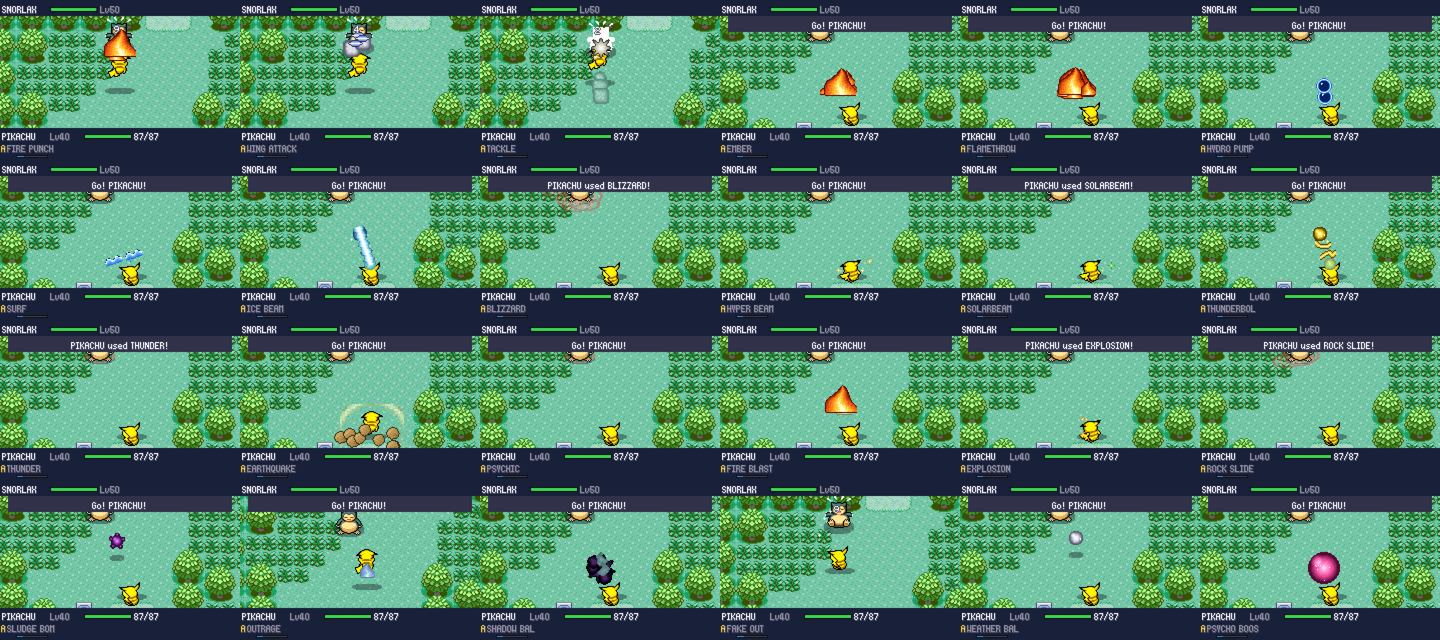
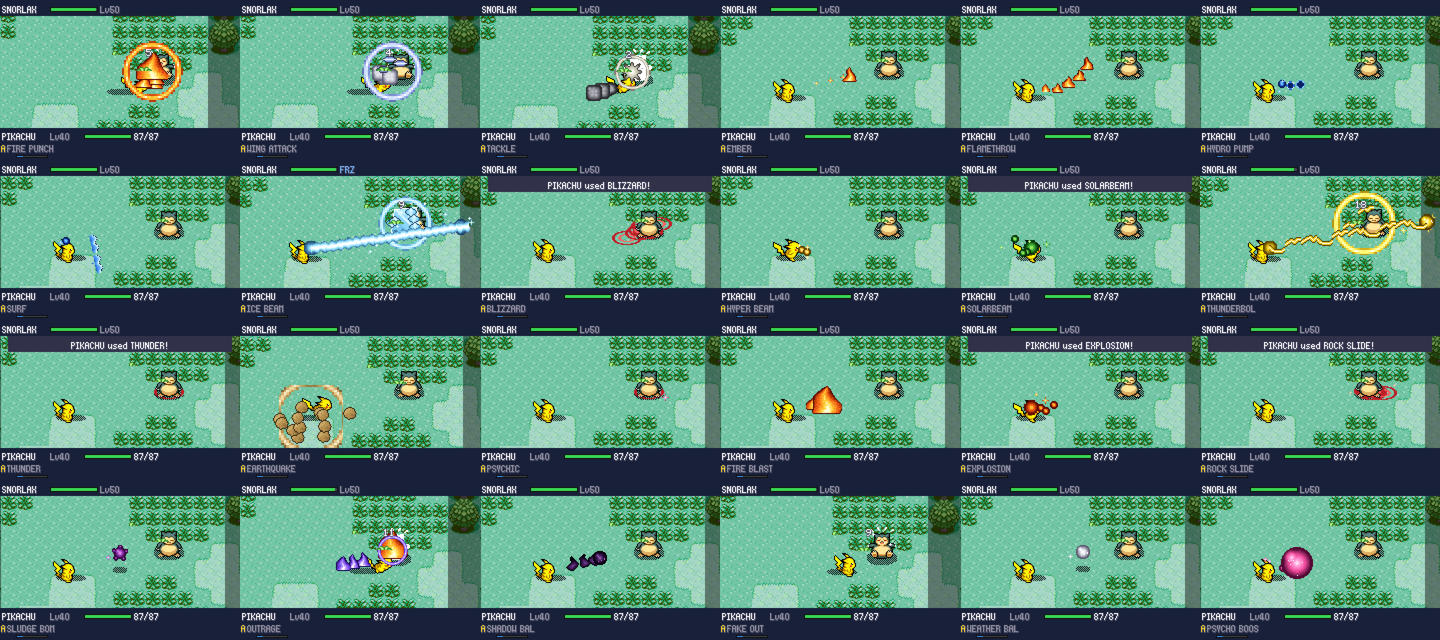
Clean battle field, better move effects, updated docs and screenshots
- arena: a clean rectangular playable field inside the real map window;
  rocks, walls, signs, water and ledges inside it are painted over, the
  scenery outside is dimmed with window 0 + darken blend
- move FX: charge-up gathering, self-move auras, projectile trails,
  growing streams, beam sparkles, strike build-up, impact shockwaves
- diagonal spawns and a camera that frames both fighters
- fixes: window/blend reset on exit, no palette pops during fade-out,
  flying/digging mons return at battle end, HUD text scheduling
- README and screenshots updated

Claude-Session: https://claude.ai/code/session_013R2tMbz1MA74Zkb74ruqsw

diff --git a/README.md b/README.md
@@ -5,8 +5,8 @@ Um mod de **Pokémon Emerald** (feito sobre a decompilação [pret/pokeemerald](
 Todas as batalhas viram ação: selvagens, treinadores, líderes, batalhas duplas, Safari e Battle Frontier. Você anda pela arena, mira os golpes, desvia com um dash, e cada golpe tem animação, hitbox e cooldown próprios.
 
 <p align="center">
+  <img src="docs/screenshots/trainer_thunder.png" width="400">
   <img src="docs/screenshots/trainer_fire_blast.png" width="400">
-  <img src="docs/screenshots/double_surf.png" width="400">
 </p>
 
 > **Aviso legal.** Este repositório **não contém nenhuma ROM**. Pokémon é marca e propriedade da Nintendo / Game Freak / Creatures. Os gráficos dos Pokémon em batalha vêm do [PMD SpriteCollab](https://sprites.pmdcollab.org) (licença **CC BY-NC 4.0**). Projeto pessoal, sem fins comerciais. Não distribua ROMs geradas a partir dele.
@@ -29,7 +29,7 @@ Todas as batalhas viram ação: selvagens, treinadores, líderes, batalhas dupla
 ## Recursos
 
 - **Combate em tempo real** em todas as batalhas suportadas: selvagens, treinadores, duplas (2×2, com aliado controlado por IA), batalhas com parceiro (Steven), Safari Zone, Battle Frontier e Battle Pyramid.
-- **Arena = o lugar onde a batalha começou.** A arena é recortada do mapa real ao redor do jogador (árvores, prédios, cavernas, água, animações de tileset), escolhendo automaticamente a região mais aberta e conectada por perto.
+- **Arena = o lugar onde a batalha começou.** A arena é recortada do mapa real ao redor do jogador (árvores, prédios, cavernas, água, animações de tileset). Dentro dela, um **campo retangular limpo** é a área de luta: tudo que fica dentro dele (rochas, paredes, placas, árvores soltas, ledges) é pintado com o chão do lugar, e o cenário em volta aparece escurecido — o que está claro é onde dá para andar, o que está escuro não.
 - **Os 354 golpes da 3ª geração** têm comportamento, animação e efeitos próprios: projéteis, raios, ondas em cone, golpes corpo a corpo, áreas, zonas persistentes, ataques que caem do céu, Fly/Dig/Dive, clima e mais.
 - **Mira e esquiva:** tocar o botão dispara para a frente (com uma leve mira automática), segurar abre uma mira girável; SELECT faz um dash com quadros de invencibilidade.
 - **Cooldown no lugar de PP:** golpe com pouco PP no jogo original tem cooldown longo. PP Up / PP Max reduzem o cooldown, e a tela de resumo mostra o tempo em segundos.
@@ -42,11 +42,16 @@ Todas as batalhas viram ação: selvagens, treinadores, líderes, batalhas dupla
 
 | | |
 |---|---|
-| ![](docs/screenshots/trainer_intro.png) Início de batalha contra treinador | ![](docs/screenshots/trainer_thunder.png) Thunder |
-| ![](docs/screenshots/trainer_hit.png) Números de dano, "RESIST", status | ![](docs/screenshots/aim_reticle.png) Mira manual (segurando o botão do golpe) |
-| ![](docs/screenshots/double_battle.png) Batalha dupla (Tate & Liza) | ![](docs/screenshots/double_switch_menu.png) Escolha do próximo Pokémon |
-| ![](docs/screenshots/bag_menu.png) Bolsa durante a batalha | ![](docs/screenshots/party_menu.png) Escolha do alvo do item |
-| ![](docs/screenshots/safari.png) Safari Zone | ![](docs/screenshots/summary_cooldown.png) Cooldown em segundos no resumo |
+| ![](docs/screenshots/trainer_intro.png) Início de batalha contra treinador | ![](docs/screenshots/trainer_thunder.png) Thunderbolt (com "RESIST" e número de dano) |
+| ![](docs/screenshots/trainer_hit.png) Thunder: marcador no chão antes do raio cair; status PAR/PSN | ![](docs/screenshots/trainer_fire_blast.png) Flamethrower do Blaziken |
+| ![](docs/screenshots/double_battle.png) Batalha dupla (Tate & Liza), aliado com barra de HP | ![](docs/screenshots/double_surf.png) Batalha dupla: Sunny Day e Flamethrower |
+| ![](docs/screenshots/aim_reticle.png) Mira manual (segurando o botão do golpe) | ![](docs/screenshots/bag_menu.png) Bolsa durante a batalha |
+| ![](docs/screenshots/party_menu.png) Escolha do alvo do item | ![](docs/screenshots/safari.png) Safari Zone |
+| ![](docs/screenshots/summary_cooldown.png) Cooldown em segundos no resumo | |
+
+**Quadros de animação** (Thunderbolt, Thunder, Earthquake, Shadow Ball): carga de energia, disparo, rastro e impacto
+
+![](docs/screenshots/move_animation_frames.png)
 
 **Surf: a onda sai estreita e se abre em cone**
 
@@ -56,11 +61,11 @@ Todas as batalhas viram ação: selvagens, treinadores, líderes, batalhas dupla
 
 ![](docs/screenshots/moves_sheet.png)
 
-**Arenas geradas a partir do mapa** — Route 101, Petalburg Woods, ginásio de Rustboro, Meteor Falls, Slateport, Route 113 (cinzas), Route 119, ginásio de Lavaridge, ginásio de Sootopolis, sala da Elite Four (Sidney), Shoal Cave e ginásio de Fortree:
+**Arenas geradas a partir do mapa** (o campo claro é a área de luta; o cenário escurecido em volta não é caminhável) — Route 101, Petalburg Woods, ginásio de Rustboro, Meteor Falls, Slateport, Route 113 (cinzas), Route 119, ginásio de Lavaridge, ginásio de Sootopolis, sala da Elite Four (Sidney), Shoal Cave e ginásio de Fortree:
 
 ![](docs/screenshots/arenas_ingame.png)
 
-Arena inteira (512×256 px) gerada para Route 101, Meteor Falls, Slateport, Route 113, Shoal Cave e ginásio de Fortree:
+Arena inteira (512×256 px), com o campo de luta em destaque, gerada para Route 101, Meteor Falls, Slateport, Route 113, Shoal Cave e ginásio de Fortree:
 
 ![](docs/screenshots/arenas_full_maps.png)
 
@@ -94,7 +99,7 @@ A primeira compilação também compila as ferramentas auxiliares do pret (`gbag
 
 ### 3. Pegue a ROM
 
-O resultado é **`pokeemerald_modern.gba`** na raiz do repositório. A compilação é reprodutível: no commit inicial deste repositório a ROM sai com SHA-1 `097759df2f6aefa73549a64debaf38e552e86cff`. Abra no emulador (recomendado: **[mGBA](https://mgba.io)**; o save Flash 128K é detectado automaticamente).
+O resultado é **`pokeemerald_modern.gba`** na raiz do repositório. A compilação é reprodutível (mesmo código → mesma ROM, byte a byte). Abra no emulador (recomendado: **[mGBA](https://mgba.io)**; o save Flash 128K é detectado automaticamente).
 
 Opcional: a ROM sai com 32 MB por causa do preenchimento final. Para reduzir para ~17 MB (cabe em mais flashcarts e transfere mais rápido), corte o preenchimento:
 
@@ -152,11 +157,12 @@ Mudanças em arquivos do jogo original (pequenas): `battle_main.c` (desvio para 
 
 ### Arena a partir do mapa
 
-1. Uma grade de 80×48 metatiles ao redor do jogador é classificada em *caminhável*, *bloqueia projéteis* (árvores, paredes, rochas) ou *aberta* (caminhável com os 8 vizinhos caminháveis). Se o jogador está surfando, a água vira o chão.
+1. Uma grade de 80×48 metatiles ao redor do jogador é classificada em *caminhável*, *bloqueia projéteis* ou *aberta* (caminhável com os 8 vizinhos caminháveis). Se o jogador está surfando, a água vira o chão.
 2. Com somas de prefixo, todas as janelas de 32×16 metatiles (512×256 px, o tamanho de um mapa de BG) são pontuadas por área aberta e proximidade do jogador; as melhores candidatas passam por uma busca em largura que mede a maior região conectada.
-3. A janela vencedora é copiada como está (layers *normal/covered/split* idênticas às do overworld, com animações de tileset). Células fora da região conectada viram parede invisível; a câmera fica presa aos limites do mapa em salas sem conexões.
-4. **Ledges** são pintados por cima com o chão mais comum da arena (com as pontas que sobram), porque no jogo eles indicam uma barreira e confundiriam o jogador.
-5. Os pontos de spawn são escolhidos dentro da região conectada (jogador embaixo, inimigo em cima, aliados ao lado).
+3. A janela vencedora é copiada como está (layers *normal/covered/split* idênticas às do overworld, com animações de tileset).
+4. **Campo de luta:** dentro da janela é escolhido o maior retângulo (mínimo 12×7 metatiles) com o menor número de células bloqueadas (somas de prefixo + busca exaustiva). Tudo dentro dele que não for chão caminhável — rochas, paredes, placas, água, árvores, ledges — é pintado com o chão predominante do próprio campo; sombras e copas de árvore que sobravam por cima também são limpas. O campo é 100% caminhável e não tem obstáculos.
+5. Fora do campo fica o cenário real, **escurecido** por hardware: a janela 0 do GBA cobre o campo (atualizada a cada quadro com o scroll da câmera) e o efeito de escurecimento (`BLDCNT`/`BLDY`) só vale fora dela. Assim fica óbvio onde dá e onde não dá para andar.
+6. Os pontos de spawn ficam dentro do campo, na diagonal (jogador embaixo à esquerda, inimigo em cima à direita), porque a tela é larga e baixa; a câmera enquadra os dois.
 
 ### Combate
 
@@ -189,6 +195,15 @@ Mudanças em arquivos do jogo original (pequenas): `battle_main.c` (desvio para 
 - **Sprites**: os sprites do PMD SpriteCollab (animações Walk/Idle/Attack/Shoot/Hurt/Sleep/Charge, 5 direções + espelhamento) foram quantizados para 15 cores, recortados em formatos de OAM válidos, deduplicados e comprimidos em LZ77 (~3,8 MB para os 386 Pokémon). O quadro de impacto de cada animação de ataque é guardado para sincronizar a hitbox corpo a corpo. Paletas shiny são derivadas mapeando a paleta normal→shiny dos sprites originais do Emerald.
 - **Efeitos**: um atlas procedural (81 formas, 34 paletas) gerado por script: chamas, raios, gotas, folhas, rochas, cristais, notas, anéis, feixes, ondas, números, palavras…
 - **VRAM**: tileset do mapa no charblock 0 (igual ao overworld, para as animações funcionarem), três camadas de mapa 512×256 nos BG1–3, HUD no BG0; OBJ: 4 slots de 64 tiles para os atores, barras de UI, atlas de efeitos; paletas OBJ 5–15 alocadas dinamicamente (LRU) para efeitos.
+- **Efeitos dos golpes** (por cima dos padrões):
+  - golpes com tempo de preparação mostram energia **convergindo** para o usuário (partículas que vêm de fora para dentro, brilho que cresce e anel no chão);
+  - golpes de status/buff em si mesmo têm aura: anel que se expande no chão, o emblema do golpe (escudo, espada, aura…) crescendo sobre o Pokémon e partículas subindo em coluna;
+  - projéteis deixam um rastro de faíscas na cor do golpe, e os pequenos são desenhados maiores (matriz afim);
+  - jatos (Flamethrower, Hydro Pump…) começam pequenos e crescem enquanto avançam;
+  - raios soltam faíscas ao longo do feixe e na ponta;
+  - golpes que caem do céu (Thunder, Blizzard, Rock Slide…) acumulam energia sobre o marcador no chão antes de cair; o Thunder é um raio de 4 segmentos com anel de choque;
+  - todo impacto gera uma onda de choque em anel, além das partículas do tipo.
+- **Sombras** em xadrez (dither) em vez de transparência por hardware, que agora fica reservada para escurecer o cenário fora do campo.
 
 ### Desempenho
 
@@ -251,6 +266,7 @@ Usado para testes e prints. Requer o mGBA compilado como biblioteca estática (`
 - Continuam no sistema por turnos original: batalhas por cabo/link, gravações (Battle Frontier recorded battles), e-Reader e o tutorial do Wally.
 - Em salas internas mais estreitas que a tela aparecem faixas pretas nas laterais (como no overworld).
 - Objetos do mapa que não são metatiles (NPCs, árvores cortáveis, pedras de Rock Smash) não aparecem na arena.
+- O campo de luta é sempre retangular; em mapas muito estreitos ele pode ser pequeno.
 - Balanceamento (ritmo de dano, cooldowns) foi ajustado por testes, mas é subjetivo; o multiplicador global fica em `RT_DMG_SCALE` (`src/rt_moves.c`).
 
 ## Créditos e licenças
